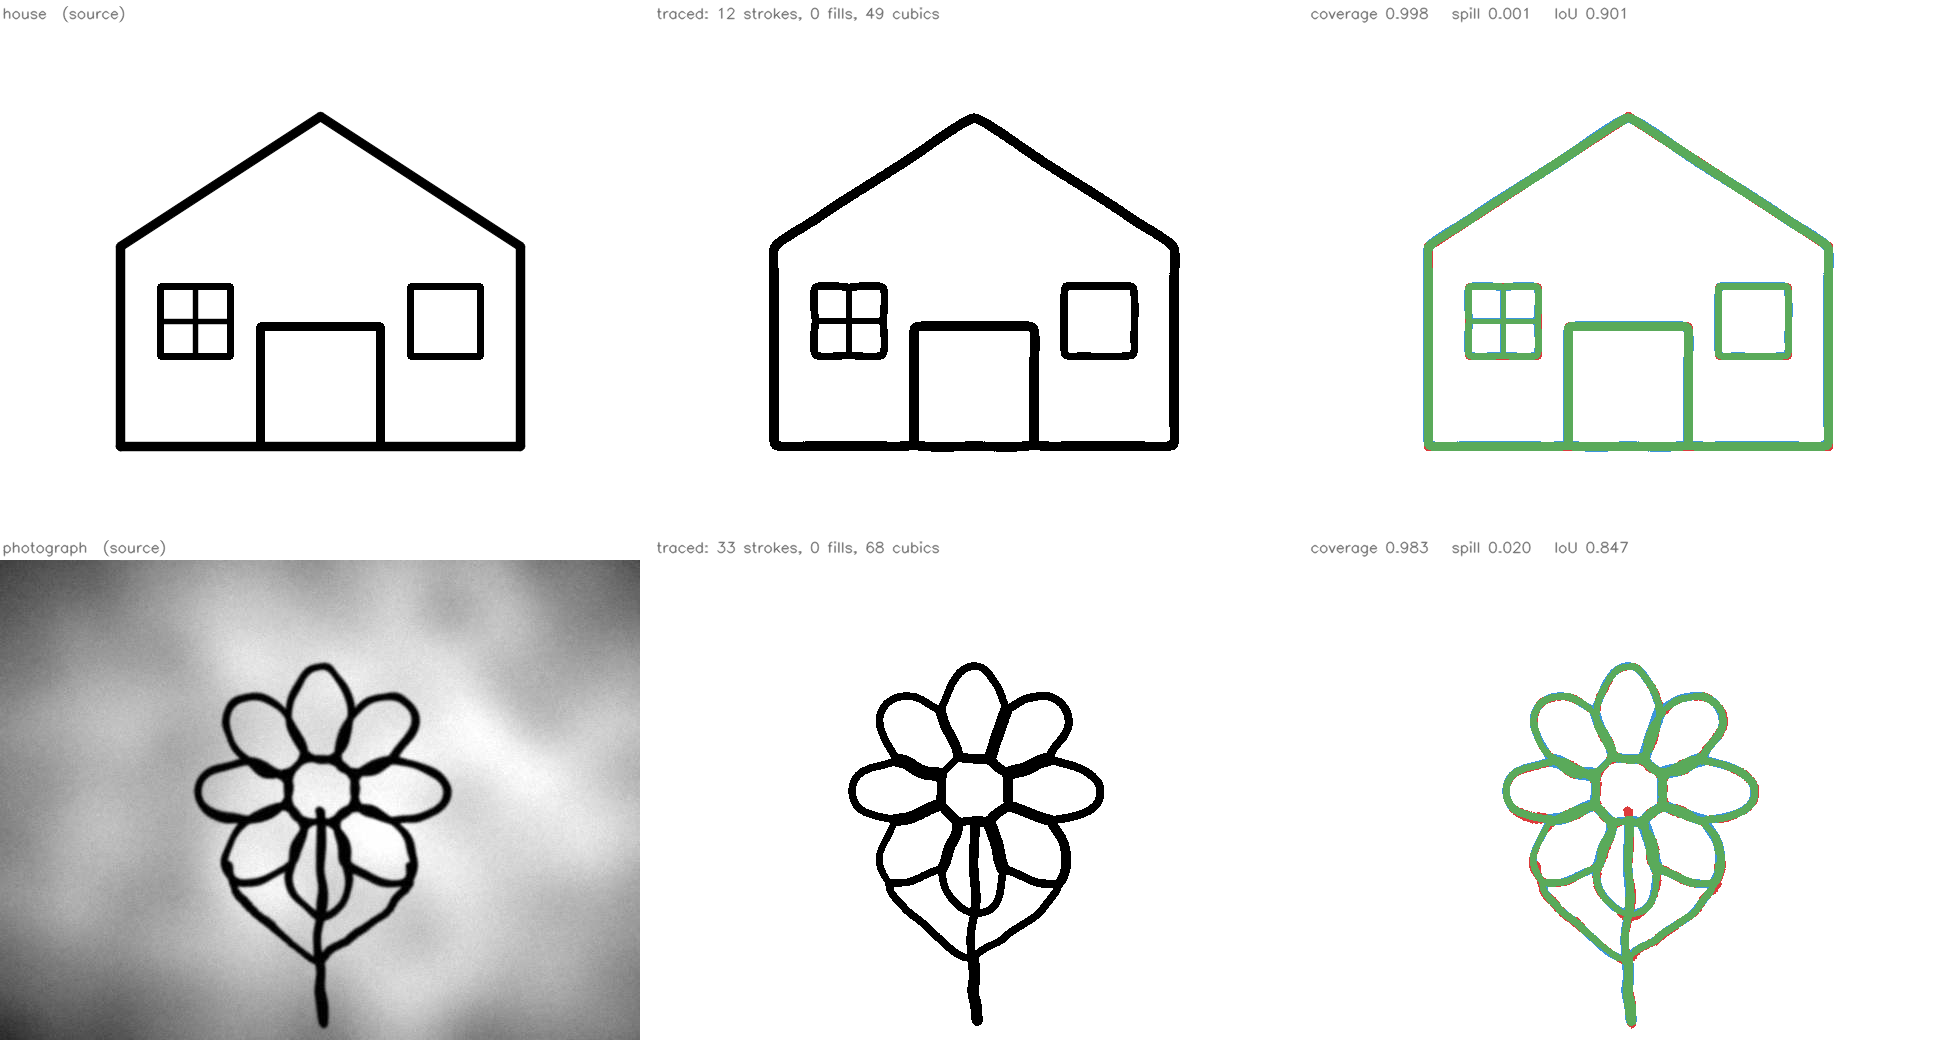
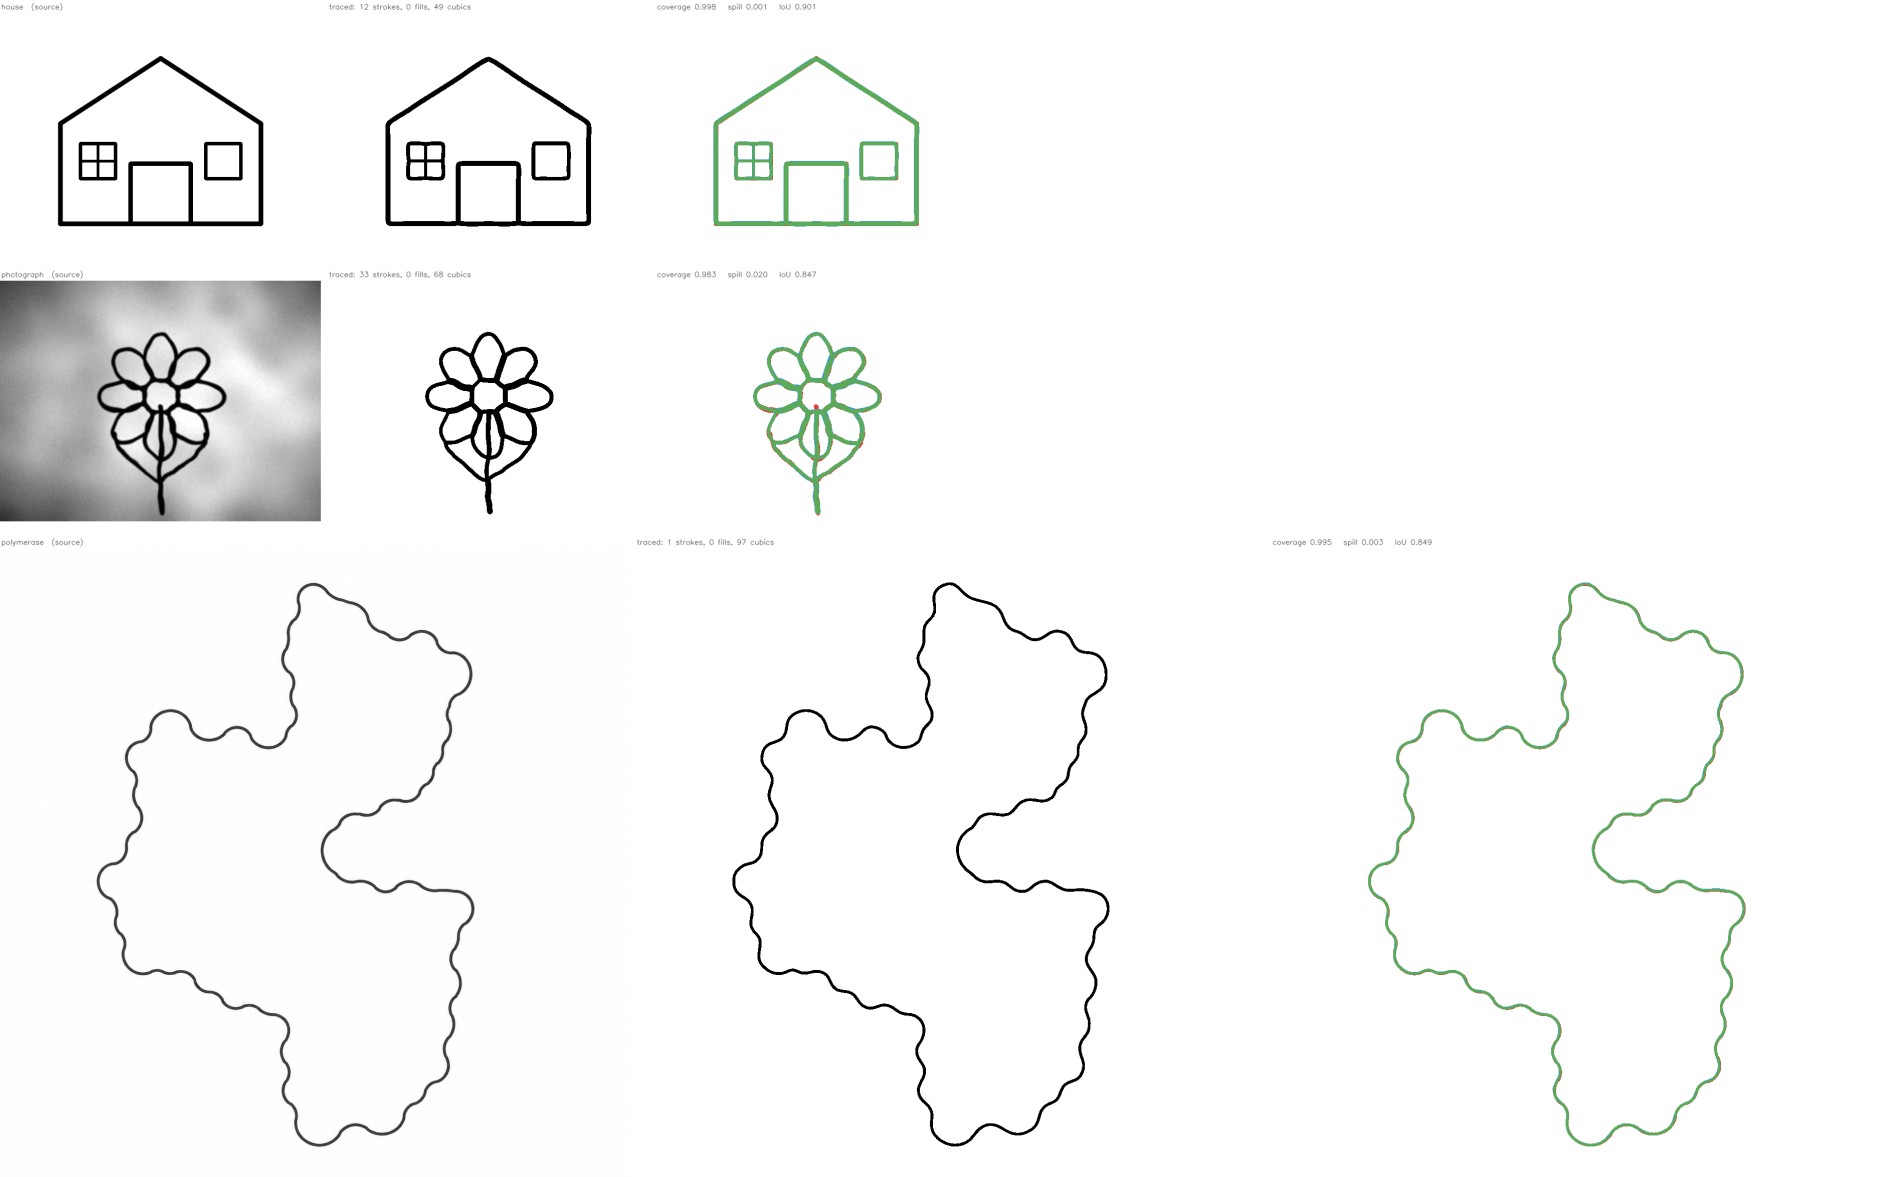
Publish the polymerase drawing as the worked example
tests/fixtures/polymerase.png is line art of a DNA polymerase, generated with
ChatGPT as a raster image. That is exactly the case this tool exists for: an
illustration that looks like line work but is a grid of pixels, with no paths
in it to restyle or animate. It is a single closed contour with about sixty
scallops, drawn in blue, so it exercises closed-loop fitting, tolerance and
colour recovery at once.

777 KB of PNG in, 3.8 KB of SVG out: one closed path of 97 cubics, 0.6 s,
99.1% of the ink reproduced, colour recovered as #0942bd. The result is
checked in as docs/polymerase.svg and the README figure gains it as a third
row beside the synthetic and photographic cases.

tests/fixtures/README.md records where each shipped image came from, since a
published repository should say. Two new fixture tests: the scalloped outline
must stay ONE closed path, and the colour must come back blue.

diff --git a/examples/make_readme_figure.py b/examples/make_readme_figure.py
@@ -15,6 +15,8 @@ sys.path.insert(0, os.path.join(os.path.dirname(__file__), ".."))
 from lineart_trace import compare, corpus, rasterize, trace_image   # noqa: E402
 
 PANELS = ["house", "photograph"]
+REAL = os.path.join(os.path.dirname(__file__), "..", "tests", "fixtures",
+                    "polymerase.png")
 PAD, LABEL_H = 14, 26
 
 
@@ -29,22 +31,32 @@ def _panel(gray, title):
 def main(argv=None):
     argv = list(sys.argv[1:] if argv is None else argv)
     out = argv[0] if argv else "docs/example.png"
+    specs = [corpus.build(n) for n in PANELS]
+    if os.path.exists(REAL):
+        img = cv2.imread(REAL, cv2.IMREAD_UNCHANGED)
+        from lineart_trace import binarize
+        specs.append(corpus.Specimen("polymerase", "real", img, binarize(img),
+                                     "a real drawing", {"colors": 0}))
     rows = []
-    for name in PANELS:
-        spec = corpus.build(name)
+    for spec in specs:
+        name = spec.name
         res = trace_image(spec.image, **spec.hint)
         render = rasterize(res, res.size, supersample=3)
         m = compare(spec.truth, render)
 
-        traced = np.full(spec.image.shape, 255, np.uint8)
+        shape = spec.image.shape[:2]
+        traced = np.full(shape, 255, np.uint8)
         traced[render > 0] = 0
-        diff = np.full(spec.image.shape + (3,), 255, np.uint8)
+        diff = np.full(shape + (3,), 255, np.uint8)
         t, r = spec.truth > 0, render > 0
         diff[t & r] = (90, 170, 90)
         diff[t & ~r] = (60, 60, 220)
         diff[~t & r] = (220, 150, 60)
 
-        cells = [_panel(spec.image, f"{name}  (source)"),
+        src = spec.image
+        if src.ndim == 3:
+            src = cv2.cvtColor(src[:, :, :3], cv2.COLOR_BGR2GRAY)
+        cells = [_panel(src, f"{name}  (source)"),
                  _panel(traced, f"traced: {res.n_strokes} strokes, "
                                 f"{res.n_fills} fills, {res.n_segments} cubics"),
                  np.vstack([np.full((LABEL_H, diff.shape[1], 3), 255, np.uint8),

diff --git a/tests/test_fixtures.py b/tests/test_fixtures.py
@@ -4,9 +4,10 @@ There is no independent ground truth for a real drawing, so the target is the
 binarised ink: these say how faithfully the vectors reproduce what was on the
 page, not how well the page was thresholded.
 
-Only `stress.png` ships (rebuild it with `examples/make_stress.py`). Drop your
-own drawings in beside it -- name them in FLOOR and they are covered too;
-anything absent is skipped, so the suite passes on a clean checkout.
+`stress.png` (rebuild it with `examples/make_stress.py`) and `polymerase.png`
+ship. Drop your own drawings in beside them -- name them in FLOOR and they
+are covered too; anything absent is skipped, so the suite passes on a clean
+checkout.
 """
 import os
 
@@ -19,6 +20,7 @@ FIX = os.path.join(os.path.dirname(__file__), "fixtures")
 
 # name -> (min coverage, max spill, max paths)
 FLOOR = {
+    "polymerase":  (0.97, 0.02, 5),
     "stress":      (0.96, 0.02, 400),
     "fingerprint": (0.96, 0.02, 200),
     "crimescene":  (0.95, 0.02, 900),
@@ -49,3 +51,19 @@ def test_output_is_much_smaller_than_the_raster():
 def test_a_drawing_keeps_its_fills():
     """The filled triangle in the stress pattern must not become a spine."""
     assert trace_file(os.path.join(FIX, "stress.png")).n_fills >= 1
+
+
+def test_a_scalloped_outline_is_one_closed_path():
+    """polymerase.png is a single closed contour with about sixty scallops:
+    it must not come apart, and the loop must close."""
+    res = trace_file(os.path.join(FIX, "polymerase.png"))
+    assert res.n_strokes == 1
+    assert res.strokes[0].closed
+    assert res.to_svg_paths()[0].endswith("Z")
+
+
+def test_colour_is_recovered_from_a_real_drawing():
+    res = trace_file(os.path.join(FIX, "polymerase.png"), colors=0)
+    assert len(res.colors) == 1
+    r, g, b = (int(res.colors[0][i:i + 2], 16) for i in (1, 3, 5))
+    assert b > 150 and b > r + 80 and b > g + 60      # it is blue

diff --git a/README.md b/README.md
@@ -20,16 +20,31 @@ print(r.n_strokes, r.n_fills, r.n_segments, r.stroke_width)
 svg = r.to_svg_group(scale=0.5, color="#3e5c8a")
 ```
 
-![source, traced vectors, and the difference, for a clean drawing and a
-simulated photograph of a crumpled page](docs/example.png)
+![source, traced vectors, and the difference, for a clean drawing, a simulated
+photograph of a crumpled page, and a real drawing of a polymerase](docs/example.png)
 
 *Left: the input. Middle: the traced vectors, rendered back. Right: the
 difference — green matched, red ink the trace missed, blue paint on blank
-paper. Rebuild with `python examples/make_readme_figure.py`.*
+paper. Rows: a synthetic drawing, a simulated photograph of a crumpled page,
+and `tests/fixtures/polymerase.png`. Rebuild with
+`python examples/make_readme_figure.py`.*
 
-On a 1536×1024 line drawing at 3 px stroke weight: **1.3 MB of PNG in, 52 KB
-of SVG out** — 512 stroked paths and 10 filled regions, 852 cubics, 2.9 s,
-reproducing 96.9 % of the original ink.
+The worked example, `tests/fixtures/polymerase.png`, is line art of a DNA
+polymerase — a single closed contour with about sixty scallops, drawn in blue.
+It was **generated with ChatGPT as a raster image**, which is exactly the
+situation this tool exists for: an illustration that looks like line work but
+is really a grid of pixels, with no paths in it to edit, restyle or animate.
+Tracing turns it back into line work:
+
+```bash
+lineart-trace tests/fixtures/polymerase.png --colors 0 --svg -o docs/polymerase.svg
+```
+
+**777 KB of PNG in, 3.8 KB of SVG out** — a single closed path of 97 cubic
+Béziers, 0.6 s, reproducing 99.1 % of the ink and recovering the pen's colour
+(`#0942bd`). Two hundred times smaller, resolution-independent, and now a
+path you can restyle. The result is checked in as
+[docs/polymerase.svg](docs/polymerase.svg).
 
 ## What it does
 

diff --git a/tests/fixtures/README.md b/tests/fixtures/README.md
@@ -1,0 +1,26 @@
+# Test fixtures
+
+Provenance of everything in this directory, because a published repository
+should say where its images came from.
+
+| file | what it is | origin |
+|---|---|---|
+| `stress.png` | A precision pattern of the cases that break centreline tracing: crossings at 90° and 15°, T-junctions, corners, cusps, lone loops, parallel lines at 1×/2×/4× the stroke gap, three stroke weights, a filled triangle, dashes, dots, a tight spiral, dense hatching, a tapering stroke, concentric and tangent circles, nested ridges, a long shallow arc. Each specimen is isolated so a failure can be attributed. | Generated by `examples/make_stress.py`. Rebuild it any time. |
+| `polymerase.png` | Line art of a DNA polymerase — a single closed contour with about sixty scallops, drawn in blue on white. It is the repository's real-world example: one image that is a genuine drawing rather than a synthetic pattern, and the one the README figure and the headline numbers come from. | Generated with ChatGPT as line art, then traced by this tool into SVG. |
+
+`lineart_trace.corpus` holds the rest of the test material — 40 labelled
+specimens built in code, so they need no files and can be regenerated exactly.
+Write them out as PNGs with `python examples/make_corpus.py out/`.
+
+## Adding your own
+
+Drop any drawing in here and the benchmark picks it up automatically, scored
+against its own ink:
+
+```bash
+python examples/benchmark.py
+```
+
+To have the test suite cover it too, add a floor for it in
+`tests/test_fixtures.py`. Anything named there but absent is skipped, so the
+suite still passes on a clean checkout.
